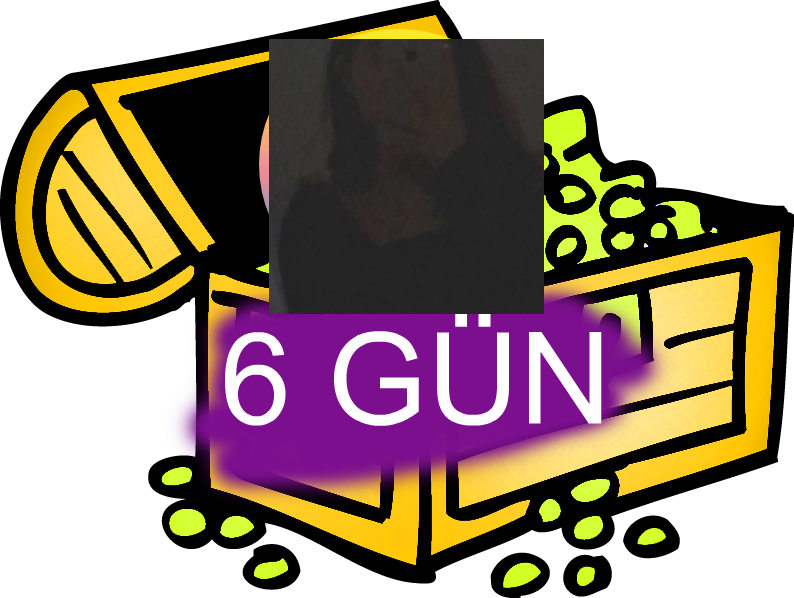
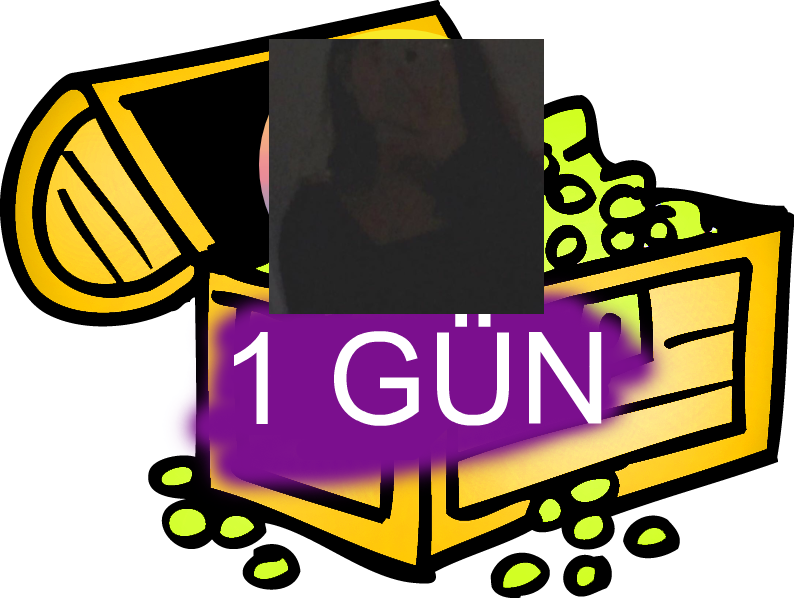
👞⛺ Checkpoint ./komutlar/p-topaz.js:9624236/1792 ./komutlar/p-menü.js:9624236/6 ./komutlar/günlükhediyes.js:9624236/26 ./komutlar/p-ucuz.js:9624236/7571

Changed region(s): [[0.272, 0.5418, 0.3627, 0.7224]]

diff --git a/komutlar/p-ucuz.js b/komutlar/p-ucuz.js
@@ -1,19 +1,18 @@
 const Discord = require('discord.js');
-const Jimp = require('jimp');
-
+const Jimp = require("jimp")
 const db = require('quick.db')
 const fs = require("fs")
 const ms = require("ms")
 exports.run = async (client, message,args) => {
 
    
-  if (db.fetch(`goldpuan_${message.author.id}`) >= 5000) {
+  if (db.fetch(`goldpuan_${message.author.id}`) >= 10000) {
 let kod31 = "";
   let kod = "1"
   for(var k = 0; k < 1; k++) {
     kod31 = (kod31 + kod.charAt(Math.floor(Math.random() * kod.length)));
   }
- const kod32 = require("useful-tools").hesapla(`${db.fetch(`goldpuan_${message.author.id}`)}-2500`)
+ const kod32 = require("useful-tools").hesapla(`${db.fetch(`goldpuan_${message.author.id}`)}-10000`)
  db.add(`goldsure_${message.author.id}`, kod31)
  db.set(`goldpuan_${message.author.id}`, kod32)
     var user = message.author; 
@@ -21,12 +20,12 @@ let kod31 = "";
   Jimp.read(`https://cdn.discordapp.com/attachments/649581228835602432/650052923728068628/unknown.png`, async(err, image) => {
     await image.resize(794, 598)
         var font = await Jimp.loadFont(Jimp.FONT_SANS_128_WHITE);
-        await image.print(font, 220, 309, kod31 + " GÜN");
+        await image.print(font, 220, 309, kod31 + " Saat Vip");
     Jimp.read(user.avatarURL, async(err, avatar) => {
         await avatar.resize(275, 275) 
       await image.composite(avatar, 269, 39).write(`./resimler/gold/gold-${message.author.id}.png`);
         setTimeout(function() {
-            message.reply(`Bravo! **Topaz Kasadan! (${kod31})** Gün Gold Üye Kazandın Azim İle Yapamıyacağın Pek Birşey Yok Sanırım Gold Üyeni Verdim Artık Kullanabilirsin Hayırlı Olsun.`)
+            message.reply(`Bravo! **UcuzKasadan! (${kod31})** saatlik vip Kazandın Azim İle Yapamıyacağın Pek Birşey Yok Sanırım  Verdim Artık Kullanabilirsin Hayırlı Olsun.`)
             return message.channel.send(new Discord.Attachment(`./resimler/gold/gold-${message.author.id}.png`));
         }, 1000);
       });
@@ -38,18 +37,18 @@ let kod31 = "";
   } else {
   return message.reply("Puanınız Yetersizdir.")  
   }
-  
+ 
 }
 
 module.exports.conf = {
   enabled: true,
   guildOnly: false,
-  aliases: ['ptopaz', "topazkasa", "ptopazkasa"],
+  aliases: [''],
   permLevel: 0
 };
 
 module.exports.help = {
-  name: 'p-topaz',
+  name: 'p-ucuz',
   description: '',
   usage: ''
 };

diff --git a/komutlar/p-menü.js b/komutlar/p-menü.js
@@ -19,8 +19,8 @@ Puanınızı ve market menüsünü gösterir.
 
 `)
  .addField("!p-topaz", `
-5.000 puan karşılığında topaz kasa açarsınız.
-İçinden rastgele 1-3 gün arası gold üye çıkar.
+2.500 puan karşılığında topaz kasa açarsınız.
+İçinden rastgele 1-2 gün arası gold üye çıkar.
 `)
  
  .addField("!p-yakut", `
